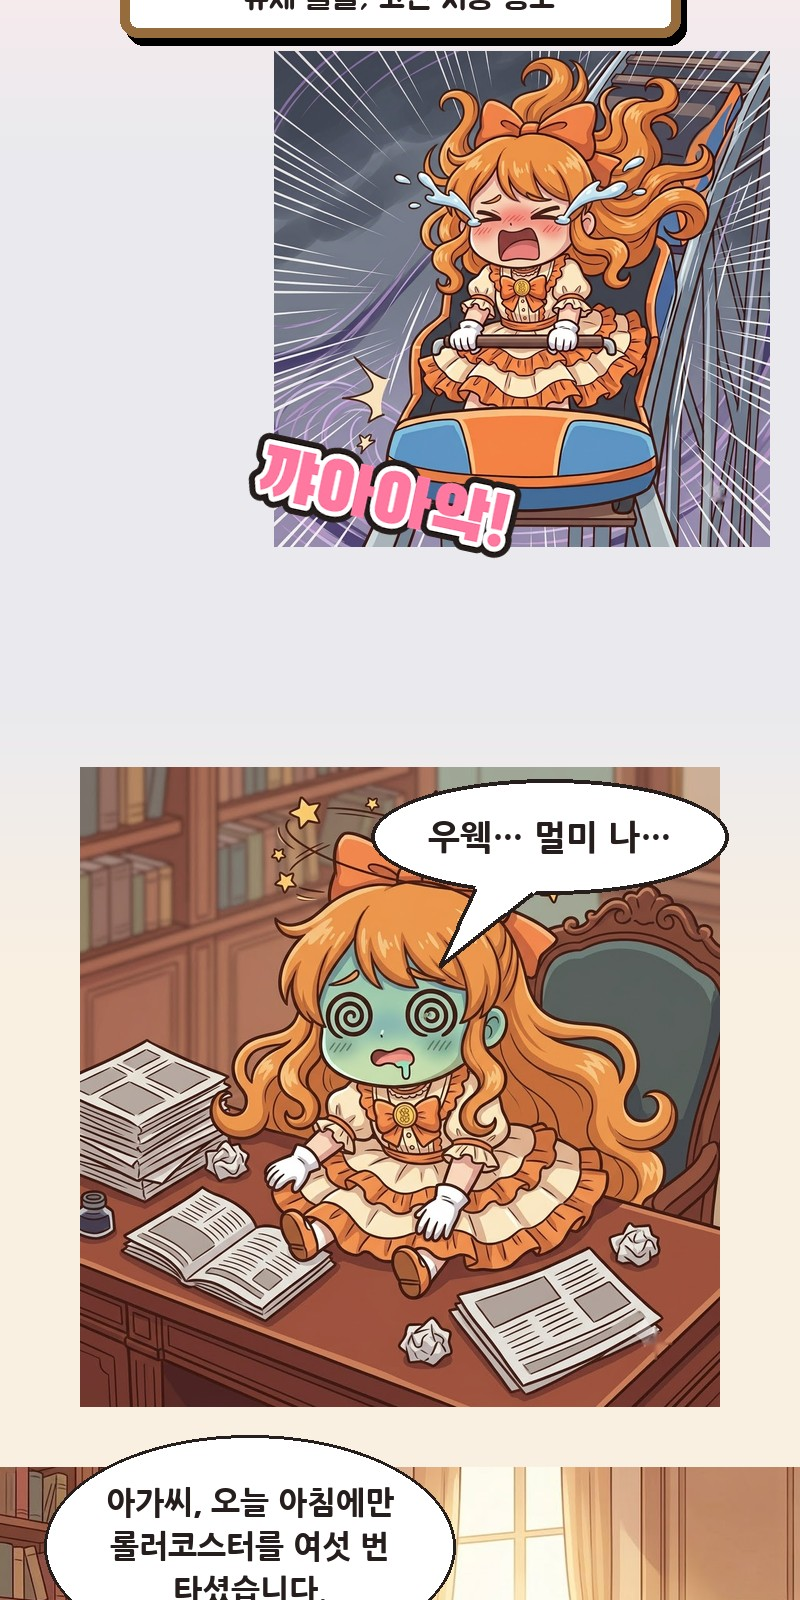
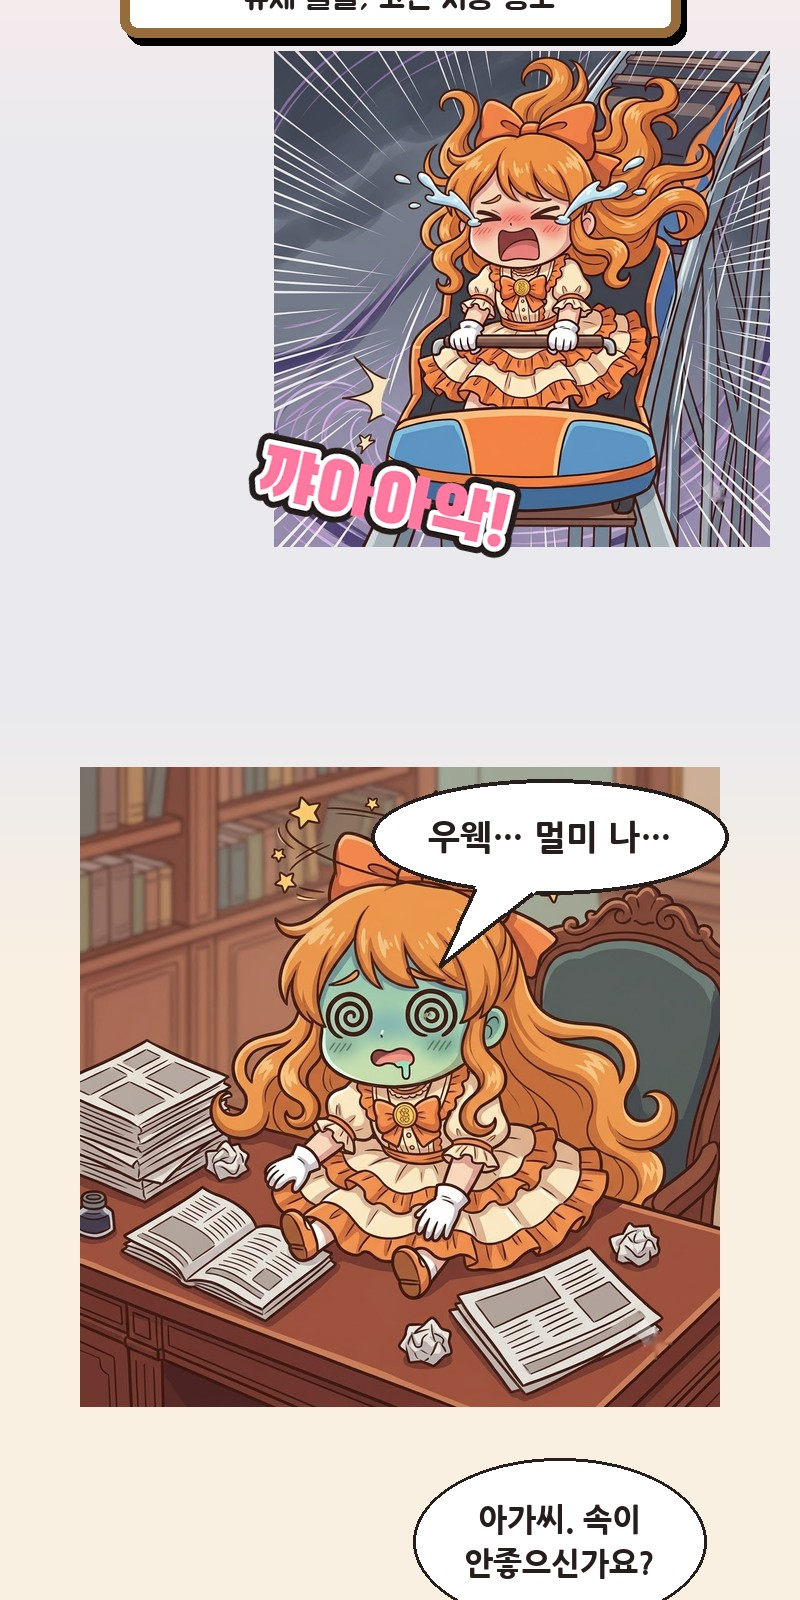
웹툰 3·4화 수정: 3화 대사·표정·제로 콜라·말풍선 위치, 4화 극장 앞 도입·회상 구성·저녁 식사 엔딩

Changed region(s): [[0.0, 0.875, 1.0, 1.0]]

diff --git a/toon.html b/toon.html
@@ -127,7 +127,7 @@ body > footer.unified-footer .uf-note{
         <div class="ep-info">
           <span class="ep-num">4화 <b class="new">NEW</b></span>
           <span class="ep-title">오늘은 내가 쏜다</span>
-          <span class="ep-desc">비트코인 대상승장! 한 방에 들어간 아가씨가 이겼다. 영화는… 빅쇼트?</span>
+          <span class="ep-desc">극장 앞에서 한턱 쏘는 아가씨. 한 방에 들어간 쪽이 이겼다. 영화는… 빅쇼트?</span>
         </div>
         <span class="ep-go">›</span>
       </a>

diff --git a/BTOON4.html b/BTOON4.html
@@ -51,6 +51,8 @@
     <img src="btoon4/p10.jpg" alt="4화 10" loading="lazy" width="800" height="1600">
     <img src="btoon4/p11.jpg" alt="4화 11" loading="lazy" width="800" height="1600">
     <img src="btoon4/p12.jpg" alt="4화 12" loading="lazy" width="800" height="1600">
+    <img src="btoon4/p13.jpg" alt="4화 13" loading="lazy" width="800" height="1600">
+    <img src="btoon4/p14.jpg" alt="4화 14" loading="lazy" width="800" height="1600">
 </div>
 
 <div class="after">

diff --git a/BTOON3.html b/BTOON3.html
@@ -50,6 +50,7 @@
     <img src="btoon3/p09.jpg" alt="3화 9" loading="lazy" width="800" height="1600">
     <img src="btoon3/p10.jpg" alt="3화 10" loading="lazy" width="800" height="1600">
     <img src="btoon3/p11.jpg" alt="3화 11" loading="lazy" width="800" height="1600">
+    <img src="btoon3/p12.jpg" alt="3화 12" loading="lazy" width="800" height="1600">
 </div>
 
 <div class="after">
